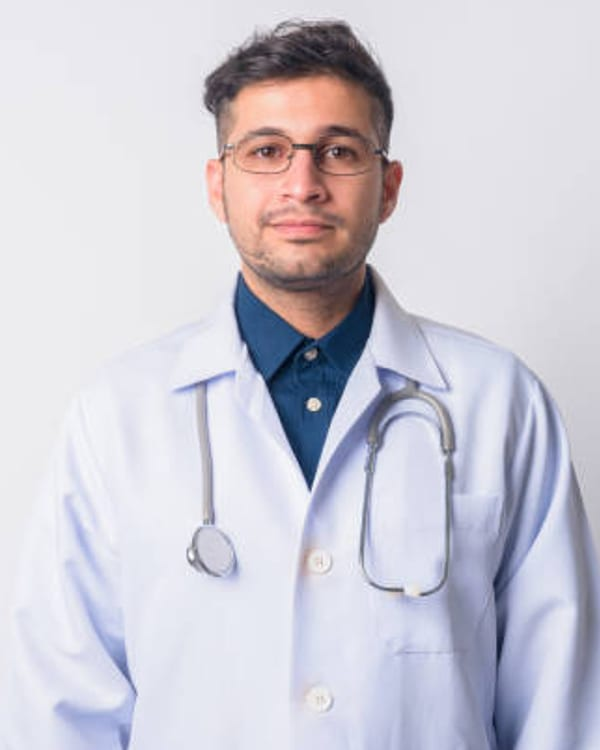
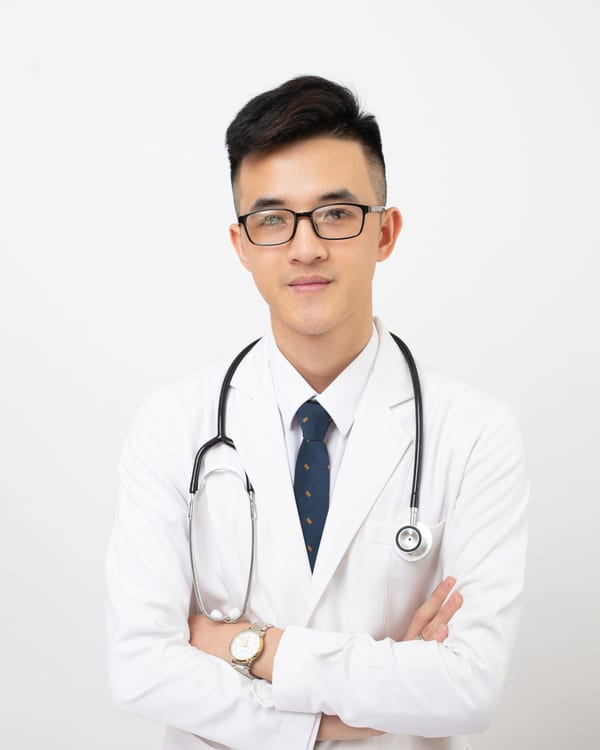
fix(images): replace two photos without proven licence, link every photo to its Pexels page
- dr-bilal-ansari.jpg and general-medicine.jpg replaced with Pexels photos (Tran Nhu Tuan, RDNE Stock project)
- Dr. Bilal alt text updated in seed data and fixtures to match the new photo
- CREDITS.md: all 24 photos linked to their Pexels pages, verified by size and image comparison
- responsive.spec: departments list selector follows the new labelled heading

diff --git a/frontend/tests/fixtures/catalog/doctors.ts b/frontend/tests/fixtures/catalog/doctors.ts
@@ -124,7 +124,7 @@ export const doctors: Doctor[] = [
     fullName: "Dr. Bilal Ansari",
     departmentId: "dept-dental",
     specialty: "Dental",
-    photo: doctorPhoto("dr-bilal-ansari", "Stock photo of a model presented as sample doctor Dr. Bilal Ansari: a man in glasses with short dark hair and light stubble, in a white coat over a dark blue shirt with a stethoscope around his neck, against a light background"),
+    photo: doctorPhoto("dr-bilal-ansari", "Stock photo of a model presented as sample doctor Dr. Bilal Ansari: a young man in glasses with short dark hair, in a white coat over a white shirt and dark tie, with a stethoscope around his neck and arms crossed, against a light background"),
     feePkr: 2000,
     qualifications: ["BDS", "MCPS (Operative Dentistry)"],
     experienceYears: 11,

diff --git a/frontend/tests/e2e/responsive.spec.ts b/frontend/tests/e2e/responsive.spec.ts
@@ -109,7 +109,7 @@ test.describe("responsive layout: no horizontal scrolling", () => {
     await page.setViewportSize({ width: 1280, height: 800 });
     for (const path of ["/", "/departments"]) {
       await page.goto(path);
-      const rows = await page.locator("section[aria-labelledby='departments-title'] ul > li, section[aria-label='Departments'] ul > li").evaluateAll((items) => {
+      const rows = await page.locator("section[aria-labelledby='departments-title'] ul > li, section[aria-labelledby='departments-list-title'] ul > li").evaluateAll((items) => {
         const boxes = items.map((item) => item.getBoundingClientRect());
         const list = items[0]!.parentElement!.getBoundingClientRect();
         const lastTop = Math.max(...boxes.map((box) => Math.round(box.top)));

diff --git a/CREDITS.md b/CREDITS.md
@@ -1,7 +1,7 @@
 # Credits and licences
 
 Every image, icon, font and map used on the Shuaib Health site, with its source and licence.
-Audit date: 7 Nov 2026 (read-only audit; no files were changed except this one).
+Audit date: 7 Nov 2026. Photo sources verified and two photos replaced on 8 Nov 2026.
 
 **Legend:** ✅ clear free-commercial licence · ⚠ needs the owner to confirm · ❌ no usable licence evidence (replace or prove)
 
@@ -9,7 +9,7 @@ Audit date: 7 Nov 2026 (read-only audit; no files were changed except this one).
 
 | Kind | Count | Status |
 |---|---|---|
-| Photos (`frontend/public/images/**.jpg`) | 24 | Stated source Pexels; **per-photo source links were never recorded**. 1 ❌, 1 ⚠ needs proof, 22 ⚠ needs links |
+| Photos (`frontend/public/images/**.jpg`) | 24 | ✅ all from Pexels, each page linked below (2 replaced on 8 Nov 2026) |
 | Logo, favicon, touch icon, OG images | own | ✅ own work (code-drawn SVG / `next/og`) |
 | Icons (`lucide-react` 1.49.0) | library | ✅ ISC licence |
 | Fonts (Plus Jakarta Sans, Inter, Cormorant Garamond) | 3 families | ✅ SIL Open Font License 1.1 |
@@ -18,42 +18,49 @@ Audit date: 7 Nov 2026 (read-only audit; no files were changed except this one).
 
 ## Photos
 
-The owner supplied the photos from **Pexels** (`specs/001-brand-home-page/image-manifest.md`, `.gitignore`).
-Pexels licence: free for commercial and personal use, no attribution required; do not sell unaltered copies,
-do not imply that people shown endorse a product, do not show identifiable people in a bad light.
-Originals are in `assets/photos/` (git-ignored). The "Embedded creator" column comes from each original's
-XMP metadata (read with `sharp`); an empty cell means the file carries no creator field.
+All 24 photos are from **Pexels**. Each one's page was opened on 8 Nov 2026 and shows the Pexels licence
+(<https://www.pexels.com/license/>): free for commercial and personal use, no attribution required; do not sell
+unaltered copies, do not imply that people shown endorse a product, do not show identifiable people in a bad light.
 
-| Public file | Original | Embedded creator | Status |
-|---|---|---|---|
-| `images/hero/hero-doctor.jpg` | `hero.jpg.jpg` | none | ⚠ add Pexels link |
-| `images/clinic/clinic-interior.jpg` | `clinic.jpg.jpg` | none | ⚠ add Pexels link |
-| `images/departments/general-medicine.jpg` | `general.jpg.jpg` | Ana Karotkaya Photography — XMP usage terms: **"Use with the permission of the artist"** | ⚠ **prove** it came from Pexels (the Pexels licence then applies); otherwise replace |
-| `images/departments/cardiology.jpg` | `cardio.jpg.jpg` | Karolina Grabowska / Kaboompics | ✅ likely (Kaboompics and Pexels are both free-commercial); add link |
-| `images/departments/pediatrics.jpg` | `pediatrics.jpg.jpg` | none | ⚠ add Pexels link |
-| `images/departments/gynecology.jpg` | `gyne.jpg.jpg` | Alex Saharchuk | ⚠ add Pexels link |
-| `images/departments/dermatology.jpg` | `derma.jpg.jpg` | FaustFoto | ⚠ add Pexels link |
-| `images/departments/dental.jpg` | `dental.jpg.jpg` | none | ⚠ add Pexels link |
-| `images/departments/pathology-lab.jpg` | `lab.jpg.jpg` | Karolina Grabowska / Kaboompics | ✅ likely; add link |
-| `images/doctors/dr-ayesha-rahman.jpg` | `ayesha.jpg.jpg` | none | ⚠ add Pexels link |
-| `images/doctors/dr-imran-qureshi.jpg` | `imran.jpg.jpg` | OYS Photography (rights: Oys Kuruni) | ⚠ add Pexels link |
-| `images/doctors/dr-sana-farooqui.jpg` | `sana.jpg.jpg` | none | ⚠ add Pexels link |
-| `images/doctors/dr-hassan-mirza.jpg` | `hassan.jpg.jpg` | none | ⚠ add Pexels link |
-| `images/doctors/dr-maryam-baloch.jpg` | `dr-maryam-baloch.jpg.jpg` | none | ⚠ add Pexels link |
-| `images/doctors/dr-bilal-ansari.jpg` | `dr-bilal-ansari.jpg.png` | **none; 675×537 PNG with black borders, no camera data** | ❌ looks like a screenshot or a frame from elsewhere, not a Pexels download. **Replace** or find the source |
-| `images/doctors/dr-zainab-memon.jpg` | `dr-zainab-memon.jpg.jpg` | none | ⚠ add Pexels link |
-| `images/doctors/dr-omar-sheikh.jpg` | `dr-omar-sheikh.jpg.jpg` | none | ⚠ add Pexels link |
-| `images/doctors/dr-faisal-chaudhry.jpg` | `dr-faisal-chaudhry.jpg.jpg` | none | ⚠ add Pexels link |
-| `images/tips/staying-hydrated.jpg` | `water.jpg.jpg` | none | ⚠ add Pexels link |
-| `images/tips/healthy-sleep-habits.jpg` | `sleep.jpg.jpg` | none | ⚠ add Pexels link |
-| `images/tips/balanced-plate.jpg` | `food.jpg.jpg` | none | ⚠ add Pexels link |
-| `images/tips/daily-walk.jpg` | `walk.jpg.jpg` | tusher | ⚠ add Pexels link |
-| `images/tips/hand-hygiene.jpg` | `hand-hygiene.jpg.jpg` | none | ⚠ add Pexels link |
-| `images/tips/managing-stress.jpg` | `managing-stress.jpg.jpg` | Karolina Grabowska / Kaboompics | ✅ likely; add link |
+**How each source was proven:** the original in `assets/photos/` (git-ignored) has exactly the same pixel size as
+the Pexels upload, and a 32×32 greyscale comparison of the two differs by under 2/255 on average (different photos,
+even from the same shoot, score 15–75). Where the file's own XMP creator differs from the Pexels credit, both are shown.
 
-**How to close the ⚠ rows (owner, about 30 minutes):** for each photo, find its Pexels page (Pexels search or a
-reverse image search on the original), and paste the URL into the table. A row is ✅ when the link opens a Pexels
-page from the same photographer.
+**Replaced on 8 Nov 2026** (approvals A2 and A3 of the overnight report):
+- `dr-bilal-ansari.jpg`: the old file was a 675×537 PNG screenshot with no traceable source. The new photo has the
+  same look as the other doctor cards (white coat, glasses, stethoscope, light background). Its alt text was updated
+  in the seed data and test fixtures; **the live site keeps the old alt text until the catalog is next re-seeded**,
+  because no database changes were allowed.
+- `general-medicine.jpg`: the old file's metadata said "Use with the permission of the artist". The new photo is a
+  consultation scene from RDNE Stock project and still matches the existing alt text ("Doctor reviewing a folder
+  with a patient in a consultation room").
+
+| Public file | Original (`assets/photos/`) | Photographer (Pexels credit) | Pexels page | Licence |
+|---|---|---|---|---|
+| `images/hero/hero-doctor.jpg` | `hero.jpg.jpg` | cottonbro studio | [7578811](https://www.pexels.com/photo/smiling-doctor-by-table-7578811/) | ✅ Pexels |
+| `images/clinic/clinic-interior.jpg` | `clinic.jpg.jpg` | Pavel Danilyuk | [7108325](https://www.pexels.com/photo/couple-looking-at-documents-in-reception-of-medical-center-7108325/) | ✅ Pexels |
+| `images/departments/general-medicine.jpg` | — (**replaced 8 Nov 2026**) | RDNE Stock project | [6129441](https://www.pexels.com/photo/male-doctor-talking-to-a-patient-6129441/) | ✅ Pexels |
+| `images/departments/cardiology.jpg` | `cardio.jpg.jpg` | Karolina Grabowska (Kaboompics) | [5207117](https://www.pexels.com/photo/portrait-of-smiling-doctor-holding-heart-5207117/) | ✅ Pexels |
+| `images/departments/pediatrics.jpg` | `pediatrics.jpg.jpg` | Pavel Danilyuk | [5998457](https://www.pexels.com/photo/a-doctor-examining-a-child-patient-5998457/) | ✅ Pexels |
+| `images/departments/gynecology.jpg` | `gyne.jpg.jpg` | Thirdman (file XMP: Alex Saharchuk) | [7659690](https://www.pexels.com/photo/a-woman-with-stethoscope-writing-on-paper-beside-a-woman-with-headscarf-7659690/) | ✅ Pexels |
+| `images/departments/dermatology.jpg` | `derma.jpg.jpg` | Gustavo Fring (file XMP: FaustFoto) | [7446672](https://www.pexels.com/photo/doctor-examining-patient-using-a-gadget-7446672/) | ✅ Pexels |
+| `images/departments/dental.jpg` | `dental.jpg.jpg` | Nadezhda Moryak | [7800666](https://www.pexels.com/photo/man-and-woman-looking-on-a-monitor-7800666/) | ✅ Pexels |
+| `images/departments/pathology-lab.jpg` | `lab.jpg.jpg` | Karolina Grabowska (Kaboompics) | [8539523](https://www.pexels.com/photo/woman-doing-an-experiment-8539523/) | ✅ Pexels |
+| `images/doctors/dr-ayesha-rahman.jpg` | `ayesha.jpg.jpg` | Gustavo Fring | [4173249](https://www.pexels.com/photo/positive-doctor-in-medical-uniform-talking-on-cellphone-in-clinic-corridor-4173249/) | ✅ Pexels |
+| `images/doctors/dr-imran-qureshi.jpg` | `imran.jpg.jpg` | Oys Photography | [19438558](https://www.pexels.com/photo/docto-19438558/) | ✅ Pexels |
+| `images/doctors/dr-sana-farooqui.jpg` | `sana.jpg.jpg` | Thirdman | [5327580](https://www.pexels.com/photo/healthcare-professional-in-white-uniform-with-stethoscope-hanging-on-her-neck-holding-a-book-while-looking-at-the-camera-5327580/) | ✅ Pexels |
+| `images/doctors/dr-hassan-mirza.jpg` | `hassan.jpg.jpg` | Usman Yousaf | [6762876](https://www.pexels.com/photo/a-man-in-white-coat-6762876/) | ✅ Pexels |
+| `images/doctors/dr-maryam-baloch.jpg` | `dr-maryam-baloch.jpg.jpg` | Antoni Shkraba | [6749773](https://www.pexels.com/photo/a-woman-wearing-a-stethoscope-6749773/) | ✅ Pexels |
+| `images/doctors/dr-bilal-ansari.jpg` | — (**replaced 8 Nov 2026**) | Tran Nhu Tuan | [15962798](https://www.pexels.com/photo/smiling-young-doctor-15962798/) | ✅ Pexels |
+| `images/doctors/dr-zainab-memon.jpg` | `dr-zainab-memon.jpg.jpg` | Mikhail Nilov | [8851711](https://www.pexels.com/photo/woman-wearing-laboratory-gown-doing-experiment-8851711/) | ✅ Pexels |
+| `images/doctors/dr-omar-sheikh.jpg` | `dr-omar-sheikh.jpg.jpg` | Los Muertos Crew | [8460090](https://www.pexels.com/photo/a-doctor-wearing-a-white-coat-8460090/) | ✅ Pexels |
+| `images/doctors/dr-faisal-chaudhry.jpg` | `dr-faisal-chaudhry.jpg.jpg` | Lucas Guimarães Bueno | [13060625](https://www.pexels.com/photo/a-doctor-holding-a-measuring-tape-13060625/) | ✅ Pexels |
+| `images/tips/staying-hydrated.jpg` | `water.jpg.jpg` | Wallace Chuck | [3500006](https://www.pexels.com/photo/clear-glass-pitcher-pouring-water-on-clear-drinking-glass-3500006/) | ✅ Pexels |
+| `images/tips/healthy-sleep-habits.jpg` | `sleep.jpg.jpg` | Vitaly Gariev | [36729598](https://www.pexels.com/photo/peaceful-sleep-woman-resting-in-comfortable-bed-36729598/) | ✅ Pexels |
+| `images/tips/balanced-plate.jpg` | `food.jpg.jpg` | Gül Işık | [20123612](https://www.pexels.com/photo/top-view-of-a-bowl-with-a-healthy-breakfast-20123612/) | ✅ Pexels |
+| `images/tips/daily-walk.jpg` | `walk.jpg.jpg` | Mushfiqur Rahman (file XMP: tusher) | [35460207](https://www.pexels.com/photo/peaceful-morning-walk-in-lush-park-35460207/) | ✅ Pexels |
+| `images/tips/hand-hygiene.jpg` | `hand-hygiene.jpg.jpg` | Anna Shvets | [3943901](https://www.pexels.com/photo/person-washing-hands-3943901/) | ✅ Pexels |
+| `images/tips/managing-stress.jpg` | `managing-stress.jpg.jpg` | Karolina Grabowska (Kaboompics) | [4498214](https://www.pexels.com/photo/young-woman-sitting-in-lotus-pose-during-meditation-at-home-4498214/) | ✅ Pexels |
 
 **Use of model photos as sample doctors:** the doctor photos show stock models under made-up doctor names. The alt
 text already says "Stock photo of a model presented as sample doctor …", and the site says these are sample

diff --git a/specs/002-public-pages/quickstart.md b/specs/002-public-pages/quickstart.md
@@ -67,7 +67,7 @@ Alt text for the doctor photos begins "Stock photo of a model presented as sampl
 | File | Alt text |
 |------|----------|
 | `doctors/dr-maryam-baloch.jpg` | Stock photo of a model presented as sample doctor Dr. Maryam Baloch: a smiling woman with long dark hair in a white coat with a stethoscope around her neck |
-| `doctors/dr-bilal-ansari.jpg` | Stock photo of a model presented as sample doctor Dr. Bilal Ansari: a man in glasses with short dark hair and light stubble, in a white coat over a dark blue shirt with a stethoscope around his neck, against a light background|
+| `doctors/dr-bilal-ansari.jpg` | Stock photo of a model presented as sample doctor Dr. Bilal Ansari: a young man in glasses with short dark hair, in a white coat over a white shirt and dark tie, with a stethoscope around his neck and arms crossed, against a light background|
 | `doctors/dr-zainab-memon.jpg` | Stock photo of a model presented as sample doctor Dr. Zainab Memon: a woman in a white lab coat and gloves working at a laboratory bench |
 | `doctors/dr-omar-sheikh.jpg` | Stock photo of a model presented as sample doctor Dr. Omar Sheikh: a grey-haired man in a white coat with a stethoscope around his neck, one hand on his collar, against a softly blurred outdoor background|
 | `doctors/dr-faisal-chaudhry.jpg` | Stock photo of a model presented as sample doctor Dr. Faisal Chaudhry: a smiling man in glasses and a white coat with a stethoscope, holding a measuring tape |
